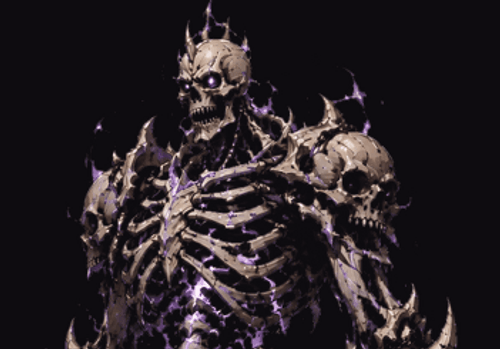
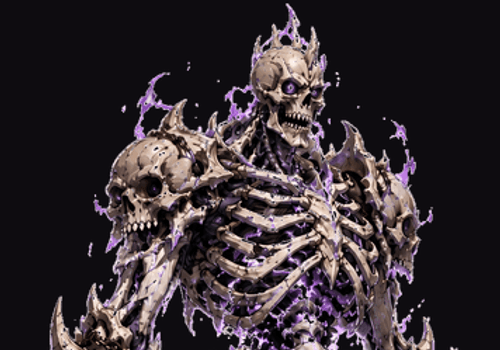
Revert Kharos's facing flip, hard-snap his alpha too
§9.36's flip (mace-arm to the right, generalizing from Torrent's claw
fix) was wrong — there's no inherent "look direction" on a skull-faced
character in a static pose to anchor that convention against, and the
user's reference (sent twice, mace on the left both times) makes the
intended orientation clear. Reverted to no flip.

Also re-keyed from a fresh copy of the reference (white background
this time) and applied the same hard alpha snap already used on
Zera/Orin, on top of still skipping color decontamination (which fixes
a different problem — the purple glow blowout, not opacity). The two
aren't in tension; there was no reason skipping decontamination should
have meant keeping a soft alpha ramp too.

Verified via Playwright in a practice match against the real
battlefield background: mace-arm back on the left, fully opaque, cape
and purple glow intact. Full pipeline (tsc -b, oxlint, 75-test Vitest
suite, vite build, cap sync android) passes. sharp was a temporary
--no-save dev dependency, uninstalled after use.

diff --git a/DESIGN.md b/DESIGN.md
@@ -2628,3 +2628,40 @@ already verified end-to-end in-game). Full pipeline (`tsc -b`,
 `oxlint`, 75-test Vitest suite, `vite build`, `cap sync android`)
 passes. `sharp` was a temporary `--no-save` dev dependency, uninstalled
 after use.
+
+### 9.37 §9.36's Kharos flip was wrong; hard-snapped his alpha instead of skipping decontamination
+
+Two follow-up complaints on §9.36's Kharos re-shoot: he was now facing
+backward, and he still wasn't opaque enough despite skipping
+decontamination there specifically to preserve his purple glow.
+
+**The flip was simply a bad call.** §9.36 mirrored Kharos so his
+mace-arm sat on the right, generalizing from Torrent's fix (§9.34,
+raised claw-arm on the wrong side). But there's no eyes-forward "look
+direction" to anchor that convention against on a skull-faced character
+holding a weapon in a static standing pose — unlike Torrent's
+wave-creature, where the raised claw read as a body genuinely oriented
+one way, Kharos's mace-hand is just which hand happens to hold it, and
+the user's own reference (sent twice now, both times with the mace on
+the *left*) makes clear that's the intended orientation. Reverted:
+no flip this time.
+
+**Opacity: skipping decontamination fixed the glow-blowout bug but
+apparently wasn't a big enough opacity win on its own.** The user
+supplied a fresh copy of the reference (same pose, this time on a white
+rather than black background) — re-keyed it with the white-background
+pipeline (distance-from-white ramp) instead of reusing the previous
+black-bg-keyed result, then applied the same hard alpha snap already
+proven on Zera/Orin (§9.36: anything ≥30 becomes fully opaque) *on top
+of* still skipping decontamination — the two fixes address different
+problems (opacity vs. color-blowout) and aren't in tension with each
+other; there was no reason the first round's "skip decontamination"
+choice should have also meant "keep a soft alpha ramp."
+
+Verified via Playwright in a practice match against the real
+battlefield background: Kharos's mace-arm is back on the left, he
+reads as solid/opaque against the busy background art, and his cape
+and purple glow are both still intact; zero console errors. Full
+pipeline (`tsc -b`, `oxlint`, 75-test Vitest suite, `vite build`,
+`cap sync android`) passes. `sharp` was a temporary `--no-save` dev
+dependency, uninstalled after use.
